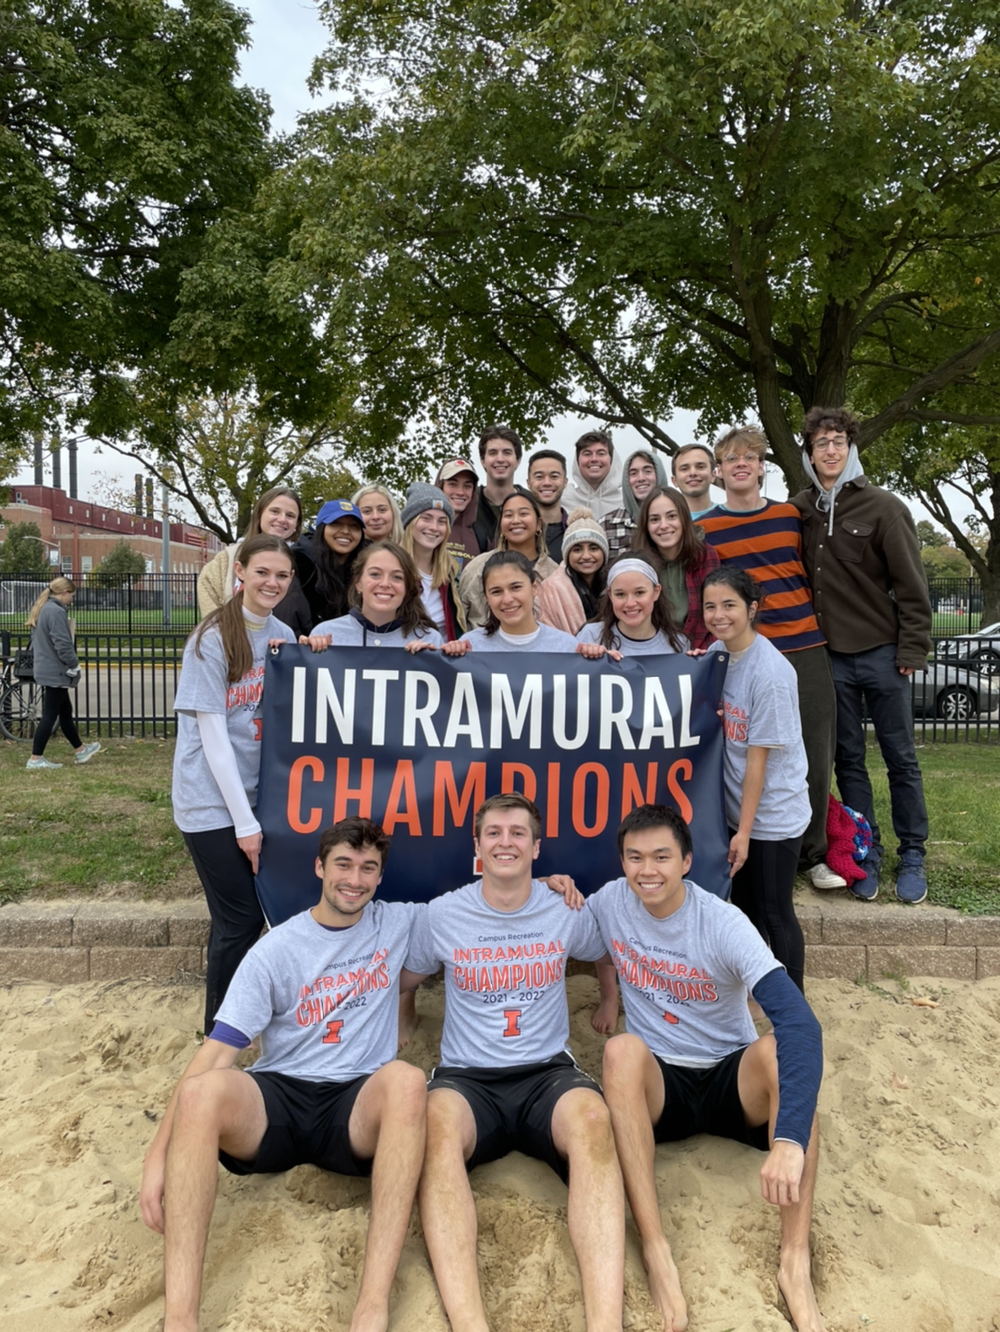
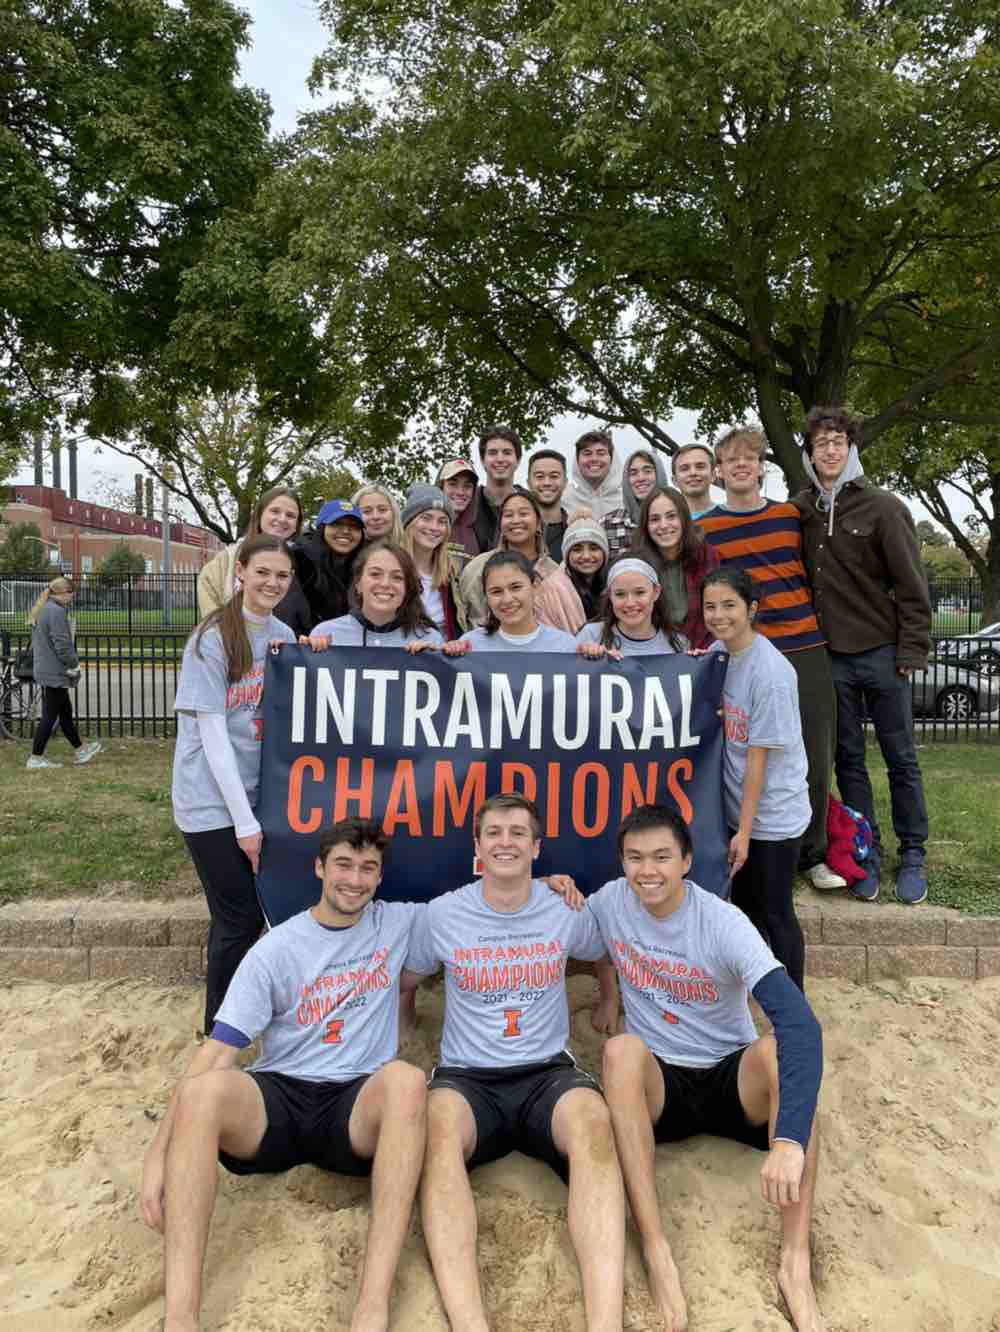
Added rush video and compressed images

diff --git a/_includes/index/announcement.html b/_includes/index/announcement.html
@@ -1,5 +1,6 @@
 <div id="announcement" {% unless site.data.announcement.show %} style="visibility: hidden; height: 0; padding: 0; border: none; margin: 0;" {% endunless %}>
     <h1> {{ site.data.announcement.title }} </h1>
-    <h4> {{ site.data.announcement.date }} </h4>
+    <!-- <h4> {{ site.data.announcement.date }} </h4> -->
+    <iframe width="1424" height="516" src="https://www.youtube.com/embed/nvfd1arkClY" title="YouTube video player" frameborder="0" allow="accelerometer; autoplay; clipboard-write; encrypted-media; gyroscope; picture-in-picture" allowfullscreen></iframe>
     <p> {{ site.data.announcement.message }} </p>
 </div>

diff --git a/css/main.css b/css/main.css
@@ -582,9 +582,17 @@
     padding: 10px 15px;
     border: 1px solid #e1e1e1;
     background-color: #f9f9f9;
-    border-radius: 4px; }
+    border-radius: 4px;
+    text-align: center; }
+    #home #announcement h1 {
+      font-weight: bold; }
     #home #announcement h4 {
       margin-bottom: 6px; }
+  #home iframe {
+    display: block;
+    margin: 0 auto;
+    width: 100%;
+    height: 350px; }
   #home #brothers {
     height: 25em;
     background: linear-gradient(rgba(0, 0, 0, 0.15), rgba(0, 0, 0, 0.15)), url("/assets/imgs/brothers-spring-2022.jpg");

diff --git a/_scss/_index.scss b/_scss/_index.scss
@@ -91,10 +91,22 @@
     border: 1px solid #e1e1e1;
     background-color: #f9f9f9;
     border-radius: 4px;
+    text-align: center;
+
+    h1 {
+      font-weight: bold;
+    }
 
     h4 {
       margin-bottom: 6px;
     }
+  }
+
+  iframe {
+    display: block;
+    margin: 0 auto;
+    width: 100%;
+    height: 350px;
   }
 
   #brothers {

diff --git a/_posts/2022-01-12-spring-rush-2022.md b/_posts/2022-01-12-spring-rush-2022.md
@@ -6,7 +6,10 @@ image: /assets/imgs/posts/spring-rush-2022-banner.jpeg
 background:
 ---
 
-Theta Tau is the nation's oldest and largest co-ed engineering fraternity. Comprised of engineers with very diverse interests, Theta Tau brings together some of the best and brightest from the Grainger College of Engineering who strive to develop skills both inside and outside of the engineering workplace. With professional, philanthropic, and social emphases, the fraternity offers its members a wide range of events throughout the year. Come get to know the brothers at the following events to see if Theta Tau is the right fit for you!
+Theta Tau is the nation's oldest and largest co-ed engineering fraternity. Comprised of engineers with very diverse interests, Theta Tau brings together some of the best and brightest from the Grainger College of Engineering who strive to develop skills both inside and outside of the engineering workplace. With professional, philanthropic, and social emphases, the fraternity offers its members a wide range of events throughout the year. Come get to know the brothers at the following events to see if Theta Tau is the right fit for you! Check out our rush video below!
+
+  <iframe width="100%" height="516" src="https://www.youtube.com/embed/nvfd1arkClY" title="YouTube video player" frameborder="0" allow="accelerometer; autoplay; clipboard-write; encrypted-media; gyroscope; picture-in-picture" allowfullscreen></iframe>
+
 
 **Please register for rush using the below link and follow our Facebook group for Zoom links and other relevant information.** 
 - **Register for Rush (must use '@illinois.edu' email):** <https://tinyurl.com/TTRushSp22> 
